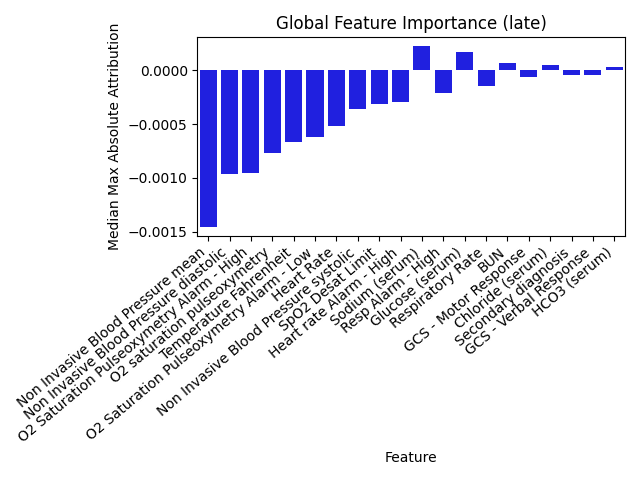
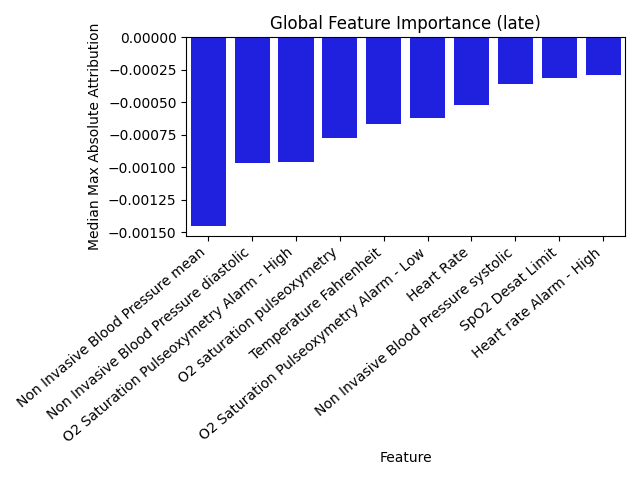
Change example used for local importance

diff --git a/src/tabsep/reporting/localImportance.py b/src/tabsep/reporting/localImportance.py
@@ -19,7 +19,7 @@ if __name__ == "__main__":
     sample_idx = np.argmax(
         torch.logical_and(
             torch.logical_and(y_test == 1, torch.sum(X_test[:, :, -1], dim=1) > 3,),
-            torch.logical_and(torch.sum(X_test[:, :, -1], dim=1) < 25, preds > 0.5,),
+            torch.logical_and(torch.sum(X_test[:, :, -1], dim=1) < 40, preds > 0.65,),
         )
     )
 
@@ -30,7 +30,7 @@ if __name__ == "__main__":
     # Truncate by padding mask
     sample_case = sample_case[pad_masks[sample_idx].tolist()]
     max_absolute_attribution = sample_case.abs().apply(lambda col: col.sum())
-    top_n_features = max_absolute_attribution.nlargest(n=20).index
+    top_n_features = max_absolute_attribution.nlargest(n=10).index
 
     sample_case = sample_case.drop(
         columns=[c for c in sample_case.columns if c not in top_n_features]
